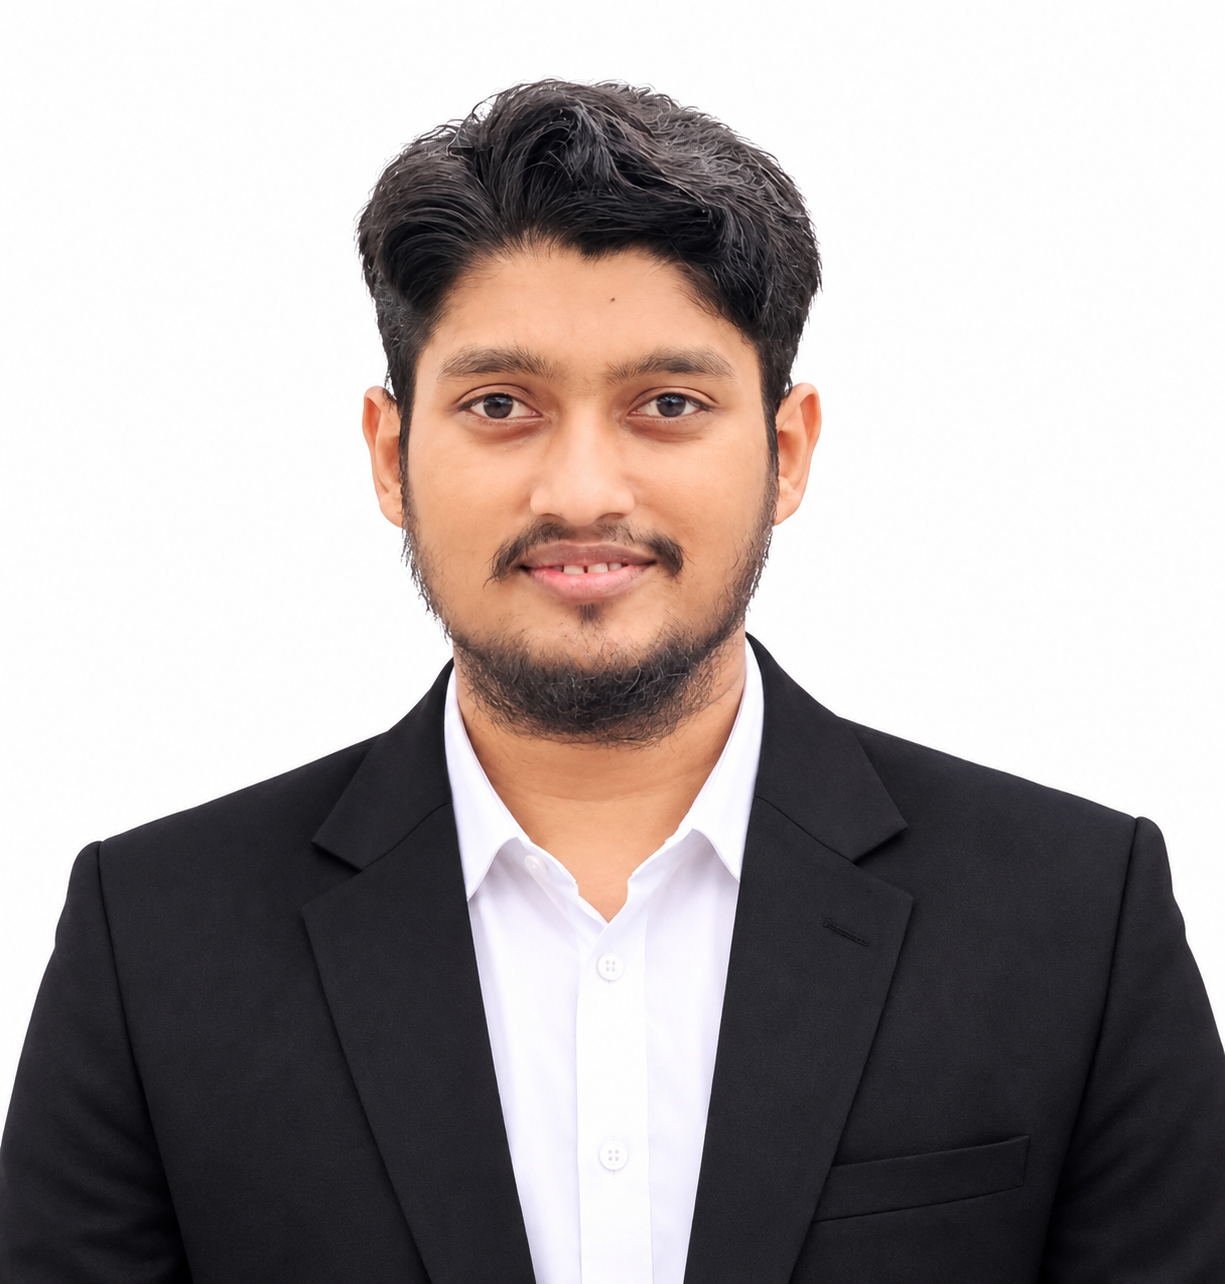
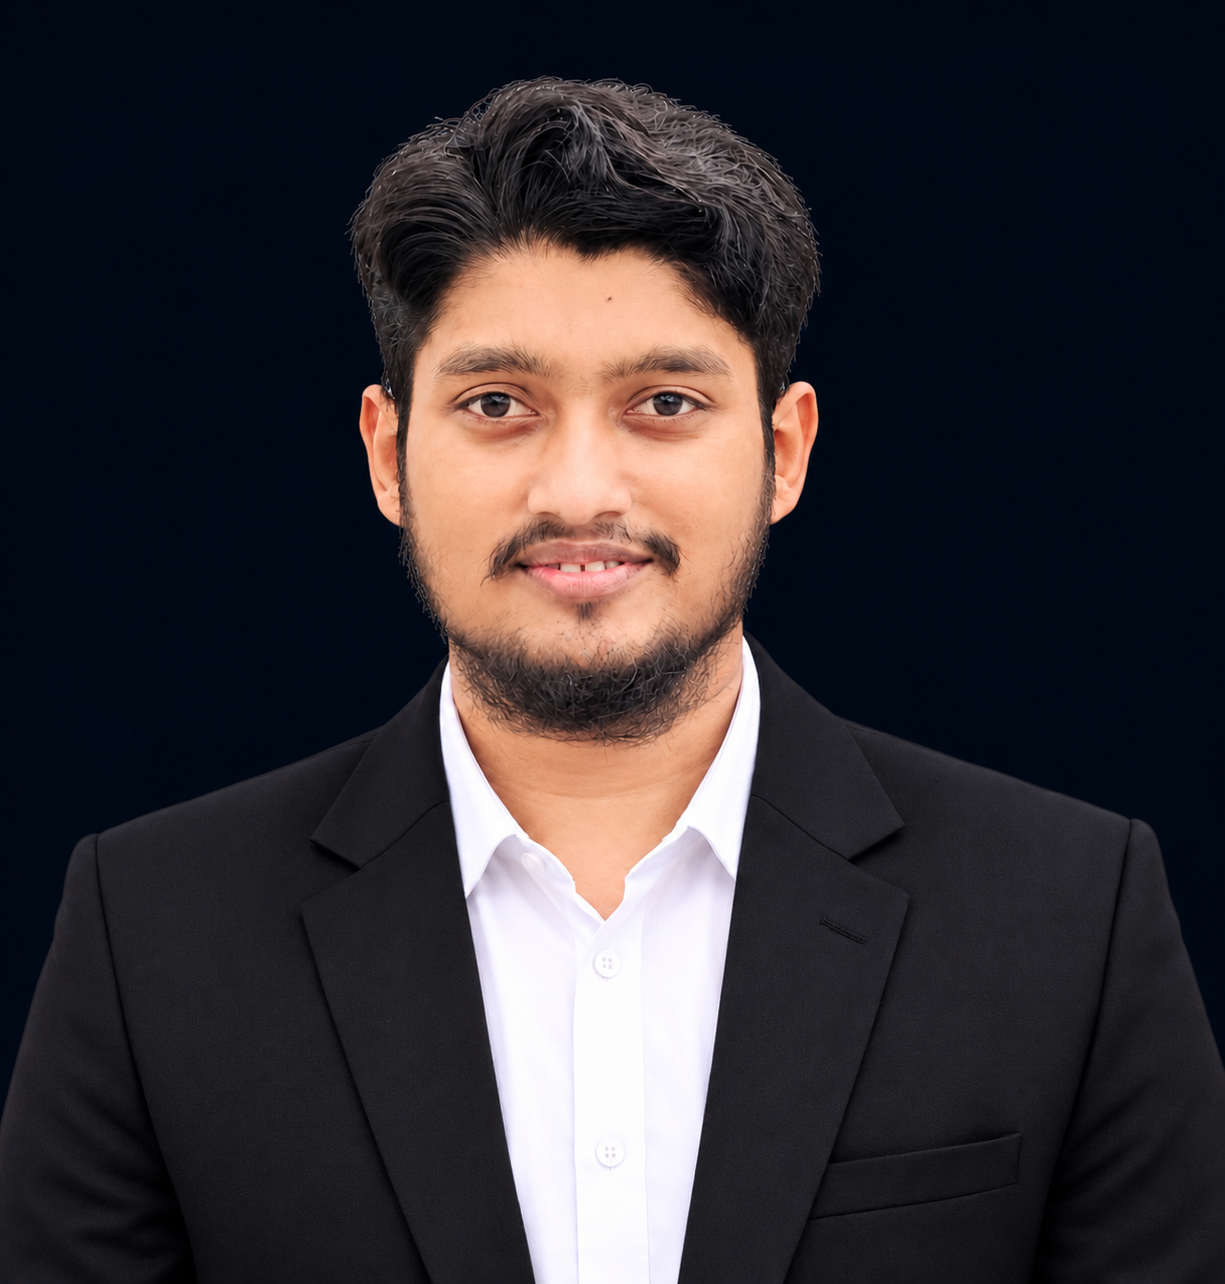
Update portfolio design

diff --git a/home.css b/home.css
@@ -41,3 +41,92 @@
          transform: rotate(360deg);
     }
 }
+.img-container img{
+    width: calc(100% - 15px);
+    height: calc(100% - 15px);
+    border-radius: 50%;
+    object-fit: cover;
+    z-index: 2;
+}
+.details{
+    display: flex;
+    flex-direction: column;
+    gap: 20px;
+    max-width: 600px;
+}
+.details h2{
+    font-size: 2.5rem;
+
+}
+.details h3{
+    font-size: 2rem;
+    display: flex;
+    align-items: center;
+    gap: 10px;
+    white-space: nowrap;
+      overflow: hidden;
+}
+.details h3 span{
+    color: var(--green);
+    display: inline-block;
+    min-width: 130px;
+      overflow: hidden;
+    white-space: nowrap;
+}
+.details h3 span::after {
+    content: "|";
+    margin-left: 5px;
+    animation: blink 0.7s steps(1) infinite;
+}
+@keyframes blink{
+    0% , 100% {
+        opacity: 1;
+    }
+    50% {
+        opacity: 0;
+    }
+}
+.details p{
+     font-size: 1.2rem;
+    text-align: justify;
+  
+}
+@media screen and (width>=768px) {
+    .home{
+        display: grid;
+        grid-template-columns: auto auto;
+        justify-content: space-between;
+        gap: 3.5rem;
+        width: 100%;
+        max-width: 100%;
+    }
+    .details h2 {
+        font-size: 3rem;
+    }
+    .details h3{
+        font-size: 2.5rem;
+    }
+}
+@media screen and (width>=1024px) {
+    .home{
+        margin: 3rem auto;
+    }
+    .img-container{
+        width: 400px;
+        height: 400px;
+
+    }
+    .details{
+        gap: 30px;
+    }
+    .details h2{
+        font-size: 5rem;
+    }
+    .details h3{
+        font-size: 2.8rem;
+    }
+.details p {
+    font-size: 1.3rem;
+    text-align: justify;
+}
+}

diff --git a/script.js b/script.js
@@ -7,3 +7,43 @@ if(toggle){
         });
     
 }
+const words =["CSE Student","Dark Hacker","Web Developer","Programmer","Tech Explorer"];
+const typingText = document.getElementById("typing-span");
+
+let wordIndex = 0;
+let charIndex = 0;
+let isDeleting = false;
+let typingDelay= 100;
+let erasingDelay= 100;
+let nextWordDelay= 1000;
+const type = () =>{
+    const currentword = words[wordIndex];
+
+    if(!isDeleting){
+        typingText.textContent = currentword.
+        substring(0, charIndex + 1);
+        charIndex++;
+
+        if(charIndex === currentword.length) {
+            isDeleting = true;
+            setTimeout(type, nextWordDelay);
+        } else{
+            setTimeout(type, typingDelay);
+        }
+    }else{
+        typingText.textContent = currentword.substring(0, charIndex - 1);
+        charIndex--;
+        if(charIndex === 0) {
+            isDeleting = false;
+            wordIndex = (wordIndex + 1) %
+            words.length;
+            setTimeout(type, 500);
+        }else{
+            setTimeout(type, erasingDelay);
+        }
+    }
+};
+document.addEventListener
+("DOMContentLoaded", () => {
+    if (words?.length) type();
+});

diff --git a/index.html b/index.html
@@ -12,7 +12,7 @@
     <div class="main-container">
     <header>
         <div class="brand-info">
-<img src="assets/logo.png" alt="">
+
 <h2>Portfolio</h2>
 
         </div>
@@ -41,6 +41,10 @@
     <section class="home">
     <div class="details">
       <h2>Jayed Ahmed</h2>
+      <h3>
+        I`m 
+        <span id="typing-span"></span>
+      </h3>
       <p>I am a Computer Science and Engineering student at Islamic University, Kushtia, Bangladesh. I am passionate about programming, cybersecurity, artificial intelligence, and continuous learning.</p>
 
 
